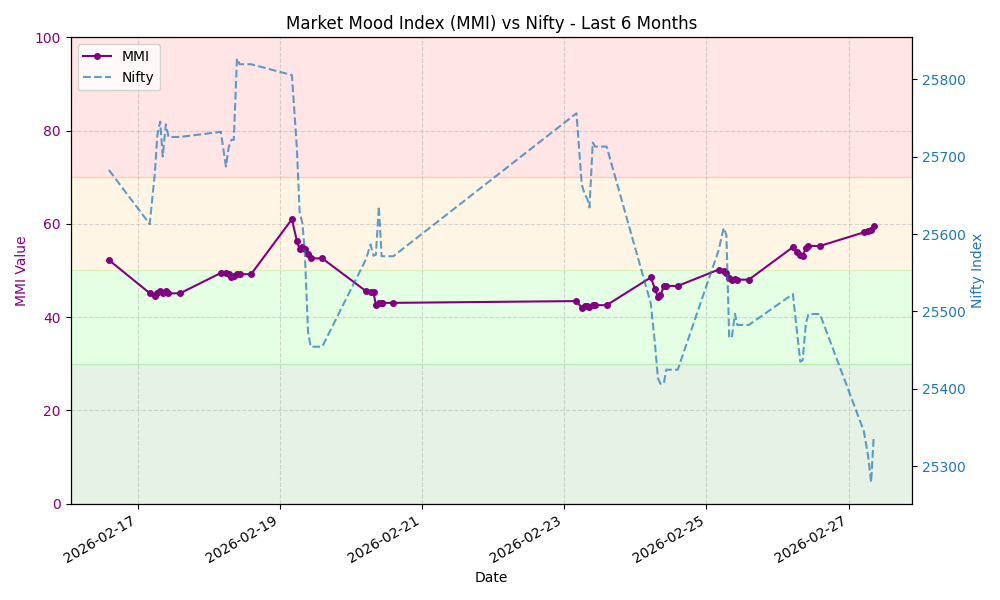
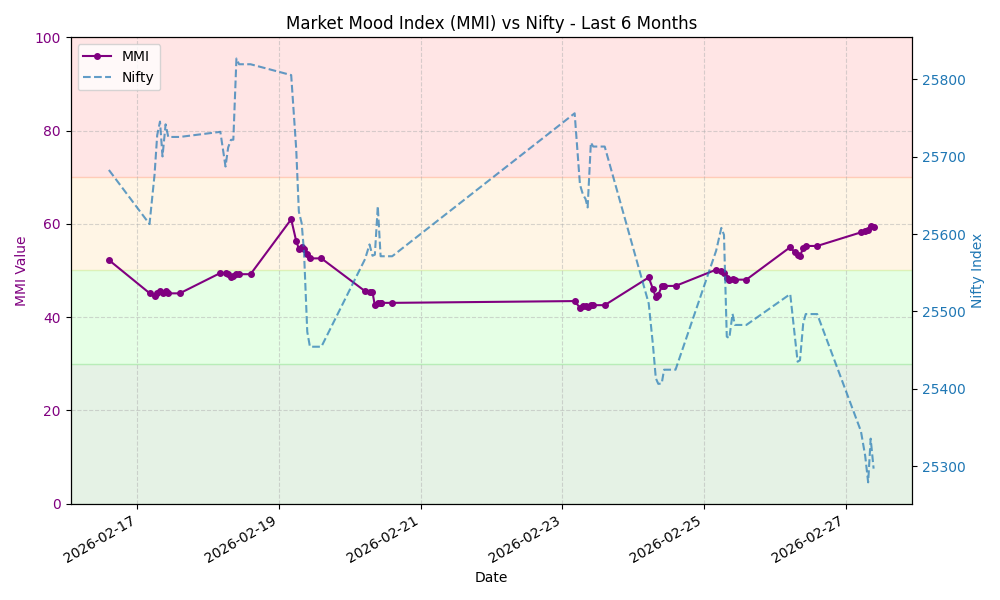
Update MMI data and chart

diff --git a/README.md b/README.md
@@ -7,8 +7,8 @@ This repository automatically fetches the MMI value, stores the history, and gen
 
 ## Latest MMI Value
 
-**59.55** - **Greed**
-<small>Last Updated: 2026-02-27 08:27 UTC</small>
+**59.38** - **Greed**
+<small>Last Updated: 2026-02-27 09:27 UTC</small>
 
 ## MMI Trend (Last 30 Days)
 
